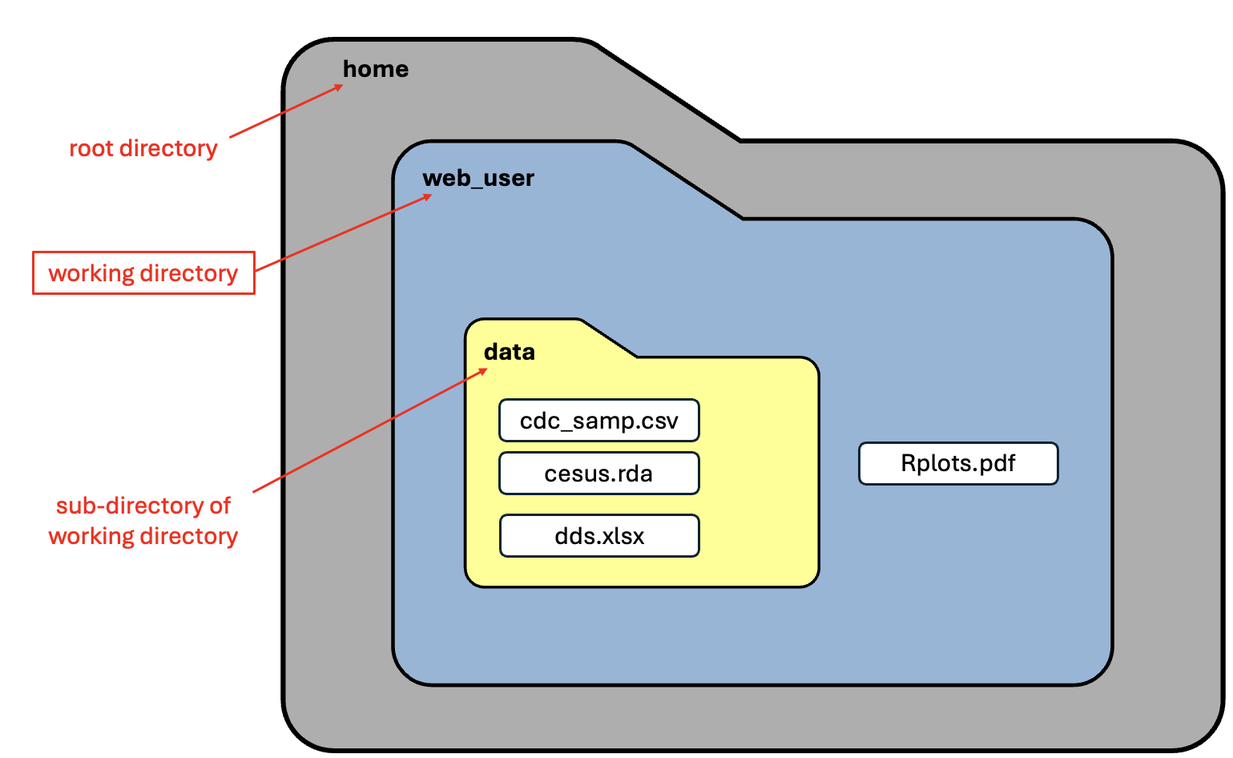
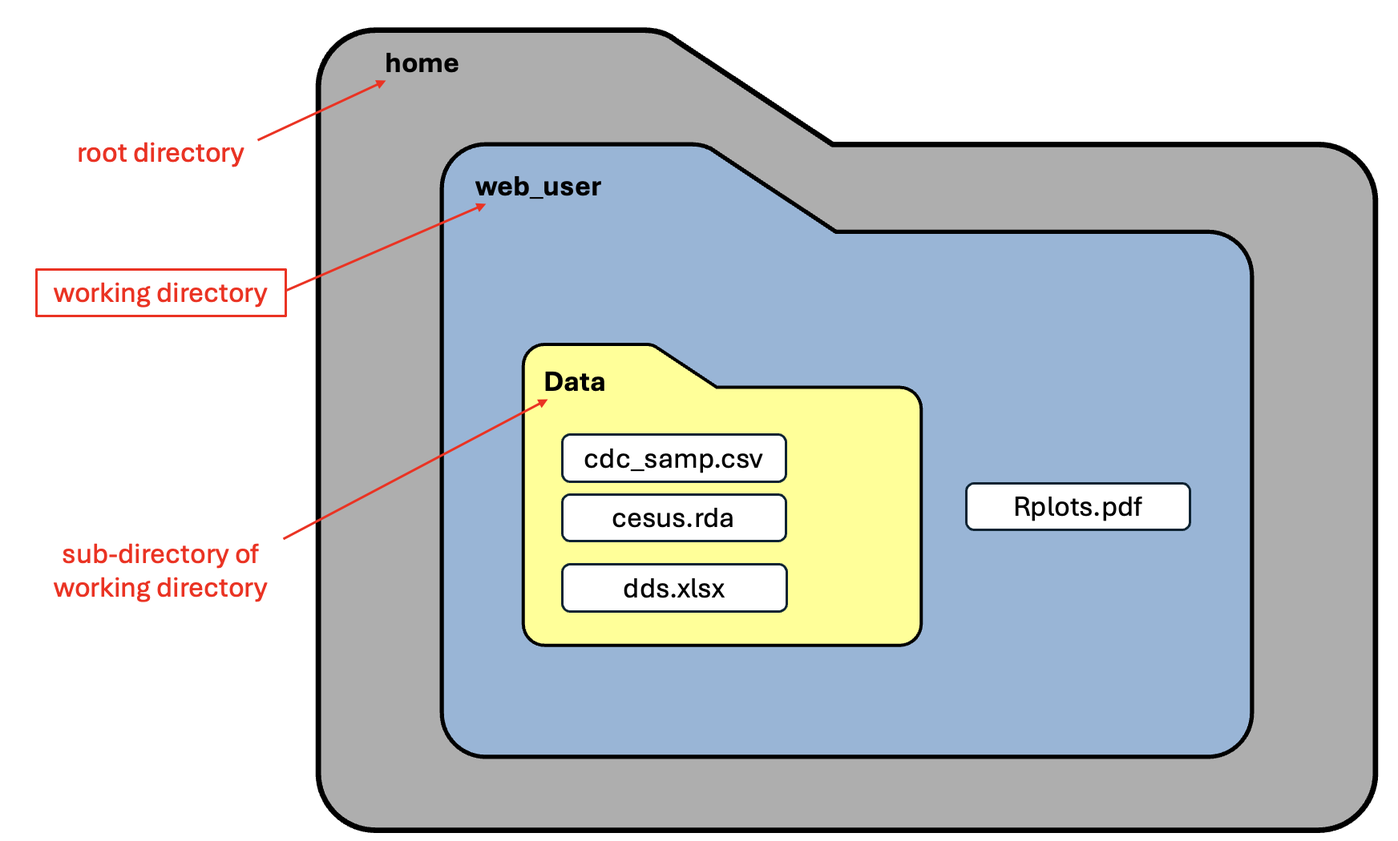
update T3

Changed region(s): [[0.0312, 0.0307, 0.9981, 0.981], [0.2495, 0.981, 0.9669, 1.0], [0.0312, 0.6438, 0.1871, 0.7357]]

diff --git a/docs/posts/Tutorial-3/Tutorial3.html b/docs/posts/Tutorial-3/Tutorial3.html
@@ -281,7 +281,7 @@ globalThis.qwebrCustomizedWebROptions = {
 };
 
 // Store cell data
-globalThis.qwebrCellDetails = [{"code":"\ndir.create(\"./data\")\n\nurl.csv <- \"https://haleykgrant.github.io/tutorial_data/data/cdc.samp.csv\"\ndownload.file(url.csv, \"./data/cdc_samp.csv\")\n\nurl.xlsx <- \"https://haleykgrant.github.io/tutorial_data/data/dds.xlsx\"\ndownload.file(url.xlsx, \"./data/dds.xlsx\")\n\nurl.rda <- \"https://haleykgrant.github.io/tutorial_data/data/census.rda\"\ndownload.file(url.rda, \"./data/census.rda\")\n","id":1,"options":{"label":"unnamed-chunk-1","comment":"","message":"true","out-height":"","fig-cap":"","warning":"true","out-width":"700px","dpi":72,"editor-max-height":"","output":"true","editor-quick-suggestions":"false","fig-width":7,"read-only":"false","classes":"","context":"setup","autorun":"true","editor-font-scale":"0.85","fig-height":5,"results":"markup"}},{"code":"# check your current working directory\n# there shouldn't be anything between the two parentheses here\ngetwd()","id":2,"options":{"label":"unnamed-chunk-2","comment":"","message":"true","out-height":"","fig-cap":"","warning":"true","out-width":"700px","dpi":72,"editor-max-height":"","output":"true","editor-quick-suggestions":"false","fig-width":7,"read-only":"false","classes":"","context":"interactive","autorun":"false","editor-font-scale":"0.85","fig-height":5,"results":"markup"}},{"code":"# print files in working directory\nlist.files(path = \"/home/web_user\")","id":3,"options":{"label":"unnamed-chunk-3","comment":"","message":"true","out-height":"","fig-cap":"","warning":"true","out-width":"700px","dpi":72,"editor-max-height":"","output":"true","editor-quick-suggestions":"false","fig-width":7,"read-only":"false","classes":"","context":"interactive","autorun":"false","editor-font-scale":"0.85","fig-height":5,"results":"markup"}},{"code":"# print files in working directory\nlist.files()","id":4,"options":{"label":"unnamed-chunk-4","comment":"","message":"true","out-height":"","fig-cap":"","warning":"true","out-width":"700px","dpi":72,"editor-max-height":"","output":"true","editor-quick-suggestions":"false","fig-width":7,"read-only":"false","classes":"","context":"interactive","autorun":"false","editor-font-scale":"0.85","fig-height":5,"results":"markup"}},{"code":"# print files in data sub-directory\nlist.files(path = \"/home/web_user/data\")","id":5,"options":{"label":"unnamed-chunk-5","comment":"","message":"true","out-height":"","fig-cap":"","warning":"true","out-width":"700px","dpi":72,"editor-max-height":"","output":"true","editor-quick-suggestions":"false","fig-width":7,"read-only":"false","classes":"","context":"interactive","autorun":"false","editor-font-scale":"0.85","fig-height":5,"results":"markup"}},{"code":"# print files in data sub-directory\nlist.files(path = \"data\")","id":6,"options":{"label":"unnamed-chunk-6","comment":"","message":"true","out-height":"","fig-cap":"","warning":"true","out-width":"700px","dpi":72,"editor-max-height":"","output":"true","editor-quick-suggestions":"false","fig-width":7,"read-only":"false","classes":"","context":"interactive","autorun":"false","editor-font-scale":"0.85","fig-height":5,"results":"markup"}},{"code":"# print files in data sub-directory\nlist.files(path = \"/home/web_user/\", recursive = T)","id":7,"options":{"label":"unnamed-chunk-7","comment":"","message":"true","out-height":"","fig-cap":"","warning":"true","out-width":"700px","dpi":72,"editor-max-height":"","output":"true","editor-quick-suggestions":"false","fig-width":7,"read-only":"false","classes":"","context":"interactive","autorun":"false","editor-font-scale":"0.85","fig-height":5,"results":"markup"}},{"code":"# read in the data file \"cdc_samp.csv\"\ncdc = read_csv(file = \"data/cdc_samp.csv\")","id":8,"options":{"label":"unnamed-chunk-8","comment":"","message":"true","out-height":"","fig-cap":"","warning":"true","out-width":"700px","dpi":72,"editor-max-height":"","output":"true","editor-quick-suggestions":"false","fig-width":7,"read-only":"false","classes":"","context":"interactive","autorun":"false","editor-font-scale":"0.85","fig-height":5,"results":"markup"}},{"code":"\n# load tidyverse package first\nlibrary(tidyverse)\n\n# read in the data file \"cdc_samp.csv\"\ncdc = read_csv(file = \"data/cdc_samp.csv\")","id":9,"options":{"label":"unnamed-chunk-9","comment":"","message":"true","out-height":"","fig-cap":"","warning":"false","out-width":"700px","dpi":72,"editor-max-height":"","output":"true","editor-quick-suggestions":"false","fig-width":7,"read-only":"false","classes":"","context":"interactive","autorun":"false","editor-font-scale":"0.85","fig-height":5,"results":"markup"}},{"code":"# check if the cdc data frame exists\nexists(\"cdc\")","id":10,"options":{"label":"unnamed-chunk-10","comment":"","message":"true","out-height":"","fig-cap":"","warning":"true","out-width":"700px","dpi":72,"editor-max-height":"","output":"true","editor-quick-suggestions":"false","fig-width":7,"read-only":"false","classes":"","context":"interactive","autorun":"false","editor-font-scale":"0.85","fig-height":5,"results":"markup"}},{"code":"# load the readxl package \nlibrary(readxl)\n\n# save the data contained in dds.xlsx under the name `dds`\ndds = read_excel(\"data/dds.xlsx\")\n","id":11,"options":{"label":"unnamed-chunk-11","comment":"","message":"true","out-height":"","fig-cap":"","warning":"true","out-width":"700px","dpi":72,"editor-max-height":"","output":"true","editor-quick-suggestions":"false","fig-width":7,"read-only":"false","classes":"","context":"interactive","autorun":"false","editor-font-scale":"0.85","fig-height":5,"results":"markup"}},{"code":"# check if the dds data frame exists","id":12,"options":{"label":"unnamed-chunk-12","comment":"","message":"true","out-height":"","fig-cap":"","warning":"true","out-width":"700px","dpi":72,"editor-max-height":"","output":"true","editor-quick-suggestions":"false","fig-width":7,"read-only":"false","classes":"","context":"interactive","autorun":"false","editor-font-scale":"0.85","fig-height":5,"results":"markup"}},{"code":"\n# check if the dds data frame exists\nexists(\"dds\")","id":13,"options":{"label":"unnamed-chunk-13","comment":"","message":"true","out-height":"","fig-cap":"","warning":"false","out-width":"700px","dpi":72,"editor-max-height":"","output":"true","editor-quick-suggestions":"false","fig-width":7,"read-only":"false","classes":"","context":"interactive","autorun":"false","editor-font-scale":"0.85","fig-height":5,"results":"markup"}},{"code":"# load in the data\n# add verbose = TRUE so the object name gets printed\nload(\"data/census.rda\", verbose = TRUE)","id":14,"options":{"label":"unnamed-chunk-14","comment":"","message":"true","out-height":"","fig-cap":"","warning":"true","out-width":"700px","dpi":72,"editor-max-height":"","output":"true","editor-quick-suggestions":"false","fig-width":7,"read-only":"false","classes":"","context":"interactive","autorun":"false","editor-font-scale":"0.85","fig-height":5,"results":"markup"}},{"code":"# check if the census data frame exists\n","id":15,"options":{"label":"unnamed-chunk-15","comment":"","message":"true","out-height":"","fig-cap":"","warning":"true","out-width":"700px","dpi":72,"editor-max-height":"","output":"true","editor-quick-suggestions":"false","fig-width":7,"read-only":"false","classes":"","context":"interactive","autorun":"false","editor-font-scale":"0.85","fig-height":5,"results":"markup"}},{"code":"# show top few rows of the data set `cdc`\nhead(cdc)","id":16,"options":{"label":"unnamed-chunk-16","comment":"","message":"true","out-height":"","fig-cap":"","warning":"true","out-width":"700px","dpi":72,"editor-max-height":"","output":"true","editor-quick-suggestions":"false","fig-width":7,"read-only":"false","classes":"","context":"interactive","autorun":"false","editor-font-scale":"0.85","fig-height":5,"results":"markup"}},{"code":"# load skimr library\nlibrary(skimr)","id":17,"options":{"label":"unnamed-chunk-17","comment":"","message":"true","out-height":"","fig-cap":"","warning":"false","out-width":"700px","dpi":72,"editor-max-height":"","output":"true","editor-quick-suggestions":"false","fig-width":7,"read-only":"false","classes":"","context":"interactive","autorun":"true","editor-font-scale":"0.85","fig-height":5,"results":"markup"}},{"code":"# use the skim() function on the cdc data\nskim(cdc)","id":18,"options":{"label":"unnamed-chunk-18","comment":"","message":"true","out-height":"","fig-cap":"","warning":"true","out-width":"700px","dpi":72,"editor-max-height":"","output":"true","editor-quick-suggestions":"false","fig-width":7,"read-only":"false","classes":"","context":"interactive","autorun":"false","editor-font-scale":"0.85","fig-height":5,"results":"markup"}}];
+globalThis.qwebrCellDetails = [{"id":1,"code":"\ndir.create(\"./Data\")\n\nurl.csv <- \"https://haleykgrant.github.io/tutorial_data/data/cdc.samp.csv\"\ndownload.file(url.csv, \"./Data/cdc_samp.csv\")\n\nurl.xlsx <- \"https://haleykgrant.github.io/tutorial_data/data/dds.xlsx\"\ndownload.file(url.xlsx, \"./Data/dds.xlsx\")\n\nurl.rda <- \"https://haleykgrant.github.io/tutorial_data/data/census.rda\"\ndownload.file(url.rda, \"./Data/census.rda\")\n","options":{"results":"markup","context":"setup","fig-height":5,"warning":"true","editor-font-scale":"0.85","message":"true","dpi":72,"fig-width":7,"editor-quick-suggestions":"false","out-width":"700px","editor-max-height":"","autorun":"true","label":"unnamed-chunk-1","out-height":"","read-only":"false","fig-cap":"","output":"true","classes":"","comment":""}},{"id":2,"code":"# check your current working directory\n# there shouldn't be anything between the two parentheses here\ngetwd()","options":{"results":"markup","context":"interactive","fig-height":5,"warning":"true","editor-font-scale":"0.85","message":"true","dpi":72,"fig-width":7,"editor-quick-suggestions":"false","out-width":"700px","editor-max-height":"","autorun":"false","label":"unnamed-chunk-2","out-height":"","read-only":"false","fig-cap":"","output":"true","classes":"","comment":""}},{"id":3,"code":"# print files in working directory\nlist.files(path = \"/home/web_user\")","options":{"results":"markup","context":"interactive","fig-height":5,"warning":"true","editor-font-scale":"0.85","message":"true","dpi":72,"fig-width":7,"editor-quick-suggestions":"false","out-width":"700px","editor-max-height":"","autorun":"false","label":"unnamed-chunk-3","out-height":"","read-only":"false","fig-cap":"","output":"true","classes":"","comment":""}},{"id":4,"code":"# print files in working directory\nlist.files()","options":{"results":"markup","context":"interactive","fig-height":5,"warning":"true","editor-font-scale":"0.85","message":"true","dpi":72,"fig-width":7,"editor-quick-suggestions":"false","out-width":"700px","editor-max-height":"","autorun":"false","label":"unnamed-chunk-4","out-height":"","read-only":"false","fig-cap":"","output":"true","classes":"","comment":""}},{"id":5,"code":"# print files in data sub-directory\nlist.files(path = \"/home/web_user/Data\")","options":{"results":"markup","context":"interactive","fig-height":5,"warning":"true","editor-font-scale":"0.85","message":"true","dpi":72,"fig-width":7,"editor-quick-suggestions":"false","out-width":"700px","editor-max-height":"","autorun":"false","label":"unnamed-chunk-5","out-height":"","read-only":"false","fig-cap":"","output":"true","classes":"","comment":""}},{"id":6,"code":"# print files in data sub-directory\nlist.files(path = \"Data\")","options":{"results":"markup","context":"interactive","fig-height":5,"warning":"true","editor-font-scale":"0.85","message":"true","dpi":72,"fig-width":7,"editor-quick-suggestions":"false","out-width":"700px","editor-max-height":"","autorun":"false","label":"unnamed-chunk-6","out-height":"","read-only":"false","fig-cap":"","output":"true","classes":"","comment":""}},{"id":7,"code":"# print files in data sub-directory\nlist.files(path = \"/home/web_user/\", recursive = T)","options":{"results":"markup","context":"interactive","fig-height":5,"warning":"true","editor-font-scale":"0.85","message":"true","dpi":72,"fig-width":7,"editor-quick-suggestions":"false","out-width":"700px","editor-max-height":"","autorun":"false","label":"unnamed-chunk-7","out-height":"","read-only":"false","fig-cap":"","output":"true","classes":"","comment":""}},{"id":8,"code":"# read in the data file \"cdc_samp.csv\"\ncdc = read_csv(\"Data/cdc_samp.csv\")","options":{"results":"markup","context":"interactive","fig-height":5,"warning":"true","editor-font-scale":"0.85","message":"true","dpi":72,"fig-width":7,"editor-quick-suggestions":"false","out-width":"700px","editor-max-height":"","autorun":"false","label":"unnamed-chunk-8","out-height":"","read-only":"false","fig-cap":"","output":"true","classes":"","comment":""}},{"id":9,"code":"# load tidyverse package first\nlibrary(tidyverse)\n\n# read in the data file \"cdc_samp.csv\"\ncdc = read_csv(\"Data/cdc_samp.csv\")","options":{"results":"markup","context":"interactive","fig-height":5,"warning":"false","editor-font-scale":"0.85","message":"true","dpi":72,"fig-width":7,"editor-quick-suggestions":"false","out-width":"700px","editor-max-height":"","autorun":"false","label":"unnamed-chunk-9","out-height":"","read-only":"false","fig-cap":"","output":"true","classes":"","comment":""}},{"id":10,"code":"# check if the cdc data frame exists\nexists(\"cdc\")","options":{"results":"markup","context":"interactive","fig-height":5,"warning":"true","editor-font-scale":"0.85","message":"true","dpi":72,"fig-width":7,"editor-quick-suggestions":"false","out-width":"700px","editor-max-height":"","autorun":"false","label":"unnamed-chunk-10","out-height":"","read-only":"false","fig-cap":"","output":"true","classes":"","comment":""}},{"id":11,"code":"# load the readxl package \nlibrary(readxl)\n\n# save the data contained in dds.xlsx under the name `dds`\ndds = read_excel(\"Data/dds.xlsx\")\n","options":{"results":"markup","context":"interactive","fig-height":5,"warning":"true","editor-font-scale":"0.85","message":"false","dpi":72,"fig-width":7,"editor-quick-suggestions":"false","out-width":"700px","editor-max-height":"","autorun":"false","label":"unnamed-chunk-11","out-height":"","read-only":"false","fig-cap":"","output":"true","classes":"","comment":""}},{"id":12,"code":"# check if the dds data frame exists\n","options":{"results":"markup","context":"interactive","fig-height":5,"warning":"true","editor-font-scale":"0.85","message":"true","dpi":72,"fig-width":7,"editor-quick-suggestions":"false","out-width":"700px","editor-max-height":"","autorun":"false","label":"unnamed-chunk-12","out-height":"","read-only":"false","fig-cap":"","output":"true","classes":"","comment":""}},{"id":13,"code":"# check if the dds data frame exists\nexists(\"dds\")","options":{"results":"markup","context":"interactive","fig-height":5,"warning":"false","editor-font-scale":"0.85","message":"true","dpi":72,"fig-width":7,"editor-quick-suggestions":"false","out-width":"700px","editor-max-height":"","autorun":"false","label":"unnamed-chunk-13","out-height":"","read-only":"false","fig-cap":"","output":"true","classes":"","comment":""}},{"id":14,"code":"# load in the data\n# add verbose = TRUE so the object name gets printed\nload(\"Data/census.rda\", verbose = TRUE)","options":{"results":"markup","context":"interactive","fig-height":5,"warning":"true","editor-font-scale":"0.85","message":"true","dpi":72,"fig-width":7,"editor-quick-suggestions":"false","out-width":"700px","editor-max-height":"","autorun":"false","label":"unnamed-chunk-14","out-height":"","read-only":"false","fig-cap":"","output":"true","classes":"","comment":""}},{"id":15,"code":"# check if the census data frame exists\n","options":{"results":"markup","context":"interactive","fig-height":5,"warning":"true","editor-font-scale":"0.85","message":"true","dpi":72,"fig-width":7,"editor-quick-suggestions":"false","out-width":"700px","editor-max-height":"","autorun":"false","label":"unnamed-chunk-15","out-height":"","read-only":"false","fig-cap":"","output":"true","classes":"","comment":""}},{"id":16,"code":"# show top few rows of the data set `cdc`\nhead(cdc)","options":{"results":"markup","context":"interactive","fig-height":5,"warning":"true","editor-font-scale":"0.85","message":"true","dpi":72,"fig-width":7,"editor-quick-suggestions":"false","out-width":"700px","editor-max-height":"","autorun":"false","label":"unnamed-chunk-16","out-height":"","read-only":"false","fig-cap":"","output":"true","classes":"","comment":""}},{"id":17,"code":"# load skimr library\nlibrary(skimr)","options":{"results":"markup","context":"interactive","fig-height":5,"warning":"false","editor-font-scale":"0.85","message":"true","dpi":72,"fig-width":7,"editor-quick-suggestions":"false","out-width":"700px","editor-max-height":"","autorun":"true","label":"unnamed-chunk-17","out-height":"","read-only":"false","fig-cap":"","output":"true","classes":"","comment":""}},{"id":18,"code":"# use the skim() function on the cdc data\nskim(cdc)","options":{"results":"markup","context":"interactive","fig-height":5,"warning":"true","editor-font-scale":"0.85","message":"true","dpi":72,"fig-width":7,"editor-quick-suggestions":"false","out-width":"700px","editor-max-height":"","autorun":"false","label":"unnamed-chunk-18","out-height":"","read-only":"false","fig-cap":"","output":"true","classes":"","comment":""}}];
 
 </script>
 <script type="module">
@@ -1491,7 +1491,7 @@ globalThis.qwebrCreateMonacoEditorInstance = function (cellData) {
 <h2 class="anchored" data-anchor-id="files-and-file-structures">Files and File Structures</h2>
 <section id="files-on-your-local-computer" class="level3">
 <h3 class="anchored" data-anchor-id="files-on-your-local-computer">Files on your local computer</h3>
-<p>When you are working in R on your local computer and you want to import a data file into your R session for an analysis, you will need to tell R where it can find the data file. This is why I suggested creating a ‘data’ folder in your class folder. If you save all of the data files for this class in that folder, you can always use the same general syntax for telling R where your file is.</p>
+<p>When you are working in R on your local computer and you want to import a data file into your R session for an analysis, you will need to tell R where it can find the data file. This is why I suggested creating a ‘Data’ folder in your class folder. If you save all of the data files for this class in that folder, you can always use the same general syntax for telling R where your file is.</p>
 <p>For this tutorial, we are working on the web, so R doesn’t have access to the local files on your device. I have included all of the data files we will be using in this tutorial on a webpage that we can access online. You may need to change this code slightly to when running code for your assignments in this class to work with your computer’s file structure.</p>
 </section>
 <section id="checking-your-working-directory" class="level3">
@@ -1507,7 +1507,7 @@ globalThis.qwebrCreateMonacoEditorInstance = function (cellData) {
 </div>
 <p>This is because we are working in R on the web. This is telling us that we are in a sub-directory of the “home” directory called “web_user”. That is, “web_user” is a directory (folder) inside the larger directory (folder) called “home”. You read file paths from left to right.</p>
 <div style="color: purple;">
-<p><em>Try running this in your Console in RStudio on your computer, and you should see a file path that corresponds to the file structure on your computer.</em></p>
+<p><em>Try running this in your Console in R Studio on your computer, and you should see a file path that corresponds to the file structure on your computer.</em></p>
 </div>
 </section>
 <section id="file-paths" class="level3">
@@ -1559,20 +1559,20 @@ Solution
 </div>
 <p>The output should look something like this:</p>
 <div style="text-align: center;">
-<p><span style="font-family: 'Monaco'; font-weight: 500; ">[1] “Rplots.pdf” “data”</span></p>
+<p><span style="font-family: 'Monaco'; font-weight: 500; ">[1] “Data” “Rplots.pdf”</span></p>
 </div>
 <p>This tells us that there are 2 objects that we have access to in this directory:</p>
+<ol type="1">
+<li>A folder called “Data”
 <ul>
-<li>a file called “Rplots.pdf”
+<li>one clue that it’s a folder instead of a file is that it doesn’t have a file extension (like “.pdf”) on the end</li>
+</ul></li>
+<li>A file called “Rplots.pdf”
 <ul>
 <li>we won’t be working with this file</li>
 </ul></li>
-<li>a folder called “data”
-<ul>
-<li>one clue that it’s a folder instead of a file is that it doesn’t have a file extension on the end</li>
-</ul></li>
-</ul>
-<p>If we want to see the files contained within the sub-folder “data”, we can pass the updated file path to the “data” folder by using the absolute path:</p>
+</ol>
+<p>If we want to see the files contained within the sub-folder “Data”, we can add this to the end of our absolute file path within the <code>path</code> argument:</p>
 <div id="qwebr-insertion-location-5"></div>
 <noscript>Please enable JavaScript to experience the dynamic code cell content on this page.</noscript>
 <div class="callout callout-style-default callout-note no-icon callout-titled">
@@ -1593,10 +1593,10 @@ Equivalently, with Relative Path
 </div>
 </div>
 </div>
-<p>Or we could add an argument to the original code that allows us to print files within subdirectoryies recursively.</p>
+<p>Alternatively, we could add an extra argument to the original code that allows us to print files within subdirectories recursively. This argument tells R to print the contents of any subfolders contained within our directory (stopping when there are no further nested folders).</p>
 <div id="qwebr-insertion-location-7"></div>
 <noscript>Please enable JavaScript to experience the dynamic code cell content on this page.</noscript>
-<p>All of these tell us that within the sub-folder called “data”, we have three files:</p>
+<p>All of these tell us that within the sub-folder called “Data”, we have three files:</p>
 <ul>
 <li>a file called “cdc_samp.csv”</li>
 <li>a file called “census.rda”</li>
@@ -1667,7 +1667,7 @@ Equivalently, with Relative Path
 <p>To read in a csv file to R, we can use the function <code>read.csv()</code>. There is a similar function in the <code>tidyverse</code> package called <code>read_csv()</code> that we can also use. We’ll go ahead and use the tidyverse version.</p>
 <p>The syntax to use this function is:</p>
 <div style="text-align: center;">
-<p><code>name_for_data = read_csv(file = "path_to_data")</code></p>
+<p><code>name_for_data = read_csv("path_to_data")</code></p>
 </div>
 <ul>
 <li><p>Here <code>name_for_data</code> is any name you choose to call the data frame. It can be helpful to give it a name that is relevant to the data, but you can call it whatever you want (with some limits, for example the name can’t start with a number).</p></li>
@@ -1703,13 +1703,13 @@ Duplicate names
 <p>Let’s try reading in the “cdc_samp.csv” file and give the data frame the name <code>cdc</code>. You may need to add an extra line of code to get this to work (think back to our last tutorial about R functions and packages).</p>
 <div id="qwebr-insertion-location-8"></div>
 <noscript>Please enable JavaScript to experience the dynamic code cell content on this page.</noscript>
-<div class="callout callout-style-default callout-warning no-icon callout-titled">
+<div class="callout callout-style-default callout-caution no-icon callout-titled">
 <div class="callout-header d-flex align-content-center" data-bs-toggle="collapse" data-bs-target=".callout-6-contents" aria-controls="callout-6" aria-expanded="false" aria-label="Toggle callout">
 <div class="callout-icon-container">
 <i class="callout-icon no-icon"></i>
 </div>
 <div class="callout-title-container flex-fill">
-Hint
+Hint (if you get an error)
 </div>
 <div class="callout-btn-toggle d-inline-block border-0 py-1 ps-1 pe-0 float-end"><i class="callout-toggle"></i></div>
 </div>
@@ -1744,15 +1744,16 @@ Solution
 <section id="making-sure-it-worked" class="level4">
 <h4 class="anchored" data-anchor-id="making-sure-it-worked">Making sure it worked</h4>
 <p>Great! If you were able to get the code chunk above to run without any error messages, then the code should have worked and we should now have an R object named <code>cdc</code> in our environment that we can work with.</p>
-<p>If we were working in RStudio, we could check to make sure there is an object named <code>cdc</code> under the <code>Data</code> heading of the Environment tab (in the upper right-hand corner for most RStudio setups if you didn’t change the panel layout). Since we aren’t working in RStudio, we will use a function to make sure our <code>read_csv()</code> code worked. The function we will use is the <code>exists()</code> function and, as the name suggests, it just tells us if the object we are checking exists in our environment or not. It will return a logical value (<code>TRUE</code> if the object exists and <code>FALSE</code> if it does not). The function expects the name of the object in “quotation marks.”</p>
+<p>If we were working in R Studio, we could check to make sure there is an object named <code>cdc</code> under the <code>Data</code> heading of the Environment tab (in the upper right-hand corner for most R Studio setups if you didn’t change the panel layout). Since we aren’t working in R Studio, we will use a function to make sure our <code>read_csv()</code> code worked. The function we will use is the <code>exists()</code> function and, as the name suggests, it just tells us if the object we are checking exists in our environment or not. It will return a logical value (<code>TRUE</code> if the object exists and <code>FALSE</code> if it does not). The function expects the name of the object in “quotation marks.”</p>
 <div id="qwebr-insertion-location-10"></div>
 <noscript>Please enable JavaScript to experience the dynamic code cell content on this page.</noscript>
+<p>If you were able to run the code above, the output here should be TRUE. If your output says FALSE, go back to the previous section and make sure you can run the code without producing any errors.</p>
 </section>
 </section>
 <section id="reading-in-an-excel-file" class="level3">
 <h3 class="anchored" data-anchor-id="reading-in-an-excel-file">Reading in an Excel file</h3>
 <p>We’ve successfully read in a csv file, but what if we get a different file type? For example, a lot of people store data in Excel. Can R handle those files? Yep! But we’re going to need to use a new package called the <code>readxl</code> package.</p>
-<div class="callout callout-style-default callout-caution callout-titled">
+<div class="callout callout-style-default callout-warning callout-titled">
 <div class="callout-header d-flex align-content-center" data-bs-toggle="collapse" data-bs-target=".callout-8-contents" aria-controls="callout-8" aria-expanded="false" aria-label="Toggle callout">
 <div class="callout-icon-container">
 <i class="callout-icon"></i>
@@ -1808,7 +1809,7 @@ Solution
 </div>
 </div>
 </div>
-<p>Awesome! It seems to have worked! Once you have the <code>readxl</code> package, importing Excel files works just like reading in csv files!</p>
+<p>Once again, this should output the logical value TRUE if the code worked properly. Once you have the <code>readxl</code> package, importing Excel files works just like reading in csv files!</p>
 </section>
 <section id="importing-r-data-files" class="level3">
 <h3 class="anchored" data-anchor-id="importing-r-data-files">Importing R data files</h3>
@@ -1869,20 +1870,19 @@ Note: file names vs object names
 </section>
 <section id="viewing-your-data" class="level2">
 <h2 class="anchored" data-anchor-id="viewing-your-data">Viewing Your Data</h2>
-<p>Great! We’ve now read our first data file into R. But how do we know if it worked?</p>
-<p>We’re going to take a brief detour to talk about taking a first look at your data before we move on to importing data from other files types.</p>
+<p>Great! We’ve now read our first data files into R. But how do we see the data we imported?</p>
 <section id="the-head-function" class="level3">
 <h3 class="anchored" data-anchor-id="the-head-function">The head() function</h3>
-<p>Again, in RStudio, you should be able to see a new object in your ‘Environment’ tab in the upper-right quadrant of your screen when you import a new data set. Since we’re working on the web, we’ll go ahead and use a different function to take a look at the top few rows of the dataset. The function that will allow us to do this is <code>head()</code> that shows us the top few entries of a data frame, vector, or list.</p>
+<p>Again, in R Studio, you should be able to see a new object in your ‘Environment’ tab in the upper-right quadrant of your screen when you import a new data set. Within this tab, there is an option to view the data by clicking the small white box that appears next to the object name. Since we’re working on the web, we’ll go ahead and use a different function to take a look at the top few rows of the dataset. The function that will allow us to do this is <code>head()</code> that shows us the top few entries of a data frame, vector, or list.</p>
 <div id="qwebr-insertion-location-16"></div>
 <noscript>Please enable JavaScript to experience the dynamic code cell content on this page.</noscript>
-<div class="callout callout-style-default callout-tip no-icon callout-titled">
+<div class="callout callout-style-default callout-caution no-icon callout-titled">
 <div class="callout-header d-flex align-content-center" data-bs-toggle="collapse" data-bs-target=".callout-13-contents" aria-controls="callout-13" aria-expanded="false" aria-label="Toggle callout">
 <div class="callout-icon-container">
 <i class="callout-icon no-icon"></i>
 </div>
 <div class="callout-title-container flex-fill">
-Hint
+Hint (if you get an error)
 </div>
 <div class="callout-btn-toggle d-inline-block border-0 py-1 ps-1 pe-0 float-end"><i class="callout-toggle"></i></div>
 </div>
@@ -2040,7 +2040,7 @@ Understanding <code>skim()</code> output
 </section>
 <section id="the-view-function" class="level3">
 <h3 class="anchored" data-anchor-id="the-view-function">The View() function</h3>
-<p>When we’re working in RStudio, we can also use the <code>View()</code> function to look at an entire data frame. This will open up a spreadsheet-like data viewer in a new tab in RStudio where you can scroll through all the rows and columns in a data frame. We can’t use this here or in R Markdown files (which can knit to PDF or HTML, for example) because it requires opening a new data viewer tab. It is a useful function when you’re working in RStudio, though!</p>
+<p>When we’re working in R Studio, we can also use the <code>View()</code> function to look at an entire data frame. This will open up a spreadsheet-like data viewer in a new tab in R Studio where you can scroll through all the rows and columns in a data frame. We can’t use this here or in R Markdown files (which can knit to PDF or HTML, for example) because it requires opening a new data viewer tab. It is a useful function when you’re working in R Studio, though!</p>
 
 
 </section>

diff --git a/docs/index.html b/docs/index.html
@@ -359,7 +359,7 @@ Haley Grant
 </div>
 </a>
 </div>
-<div class="g-col-1" data-index="2" data-categories="R code" data-listing-file-modified-sort="1721682985673" data-listing-reading-time-sort="20" data-listing-word-count-sort="3955">
+<div class="g-col-1" data-index="2" data-categories="R code" data-listing-file-modified-sort="1721756245836" data-listing-reading-time-sort="21" data-listing-word-count-sort="4038">
 <a href="./posts/Tutorial-3/Tutorial3.html" class="quarto-grid-link">
 <div class="quarto-grid-item card h-100 card-left">
 <p class="card-img-top">
